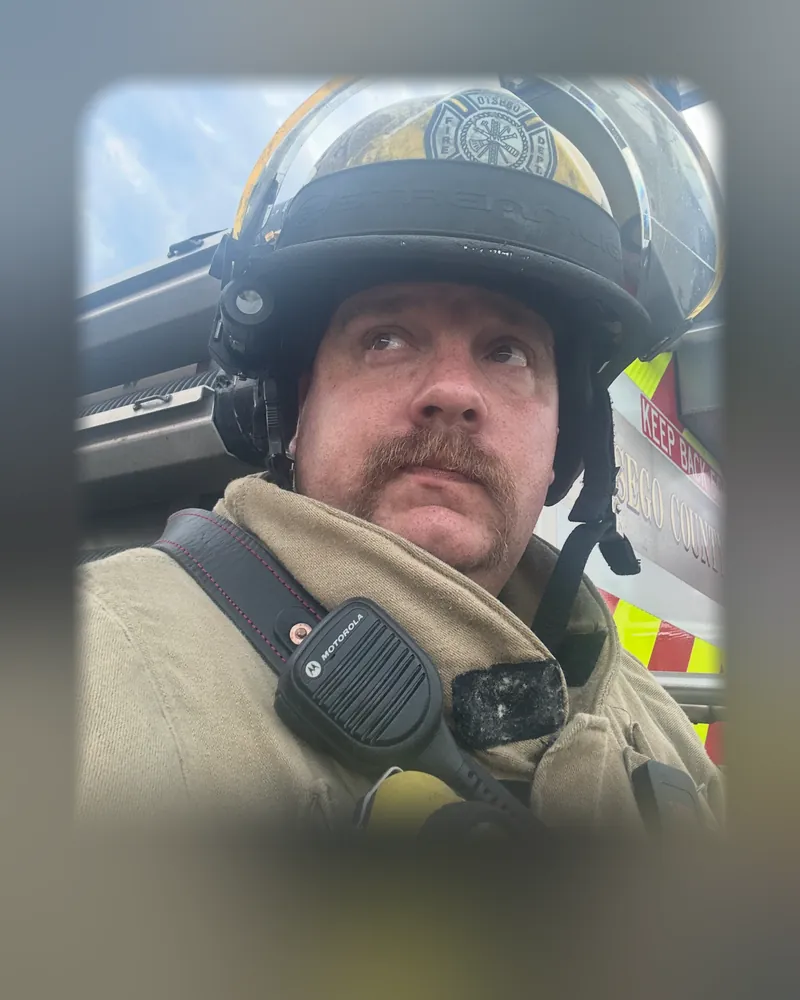
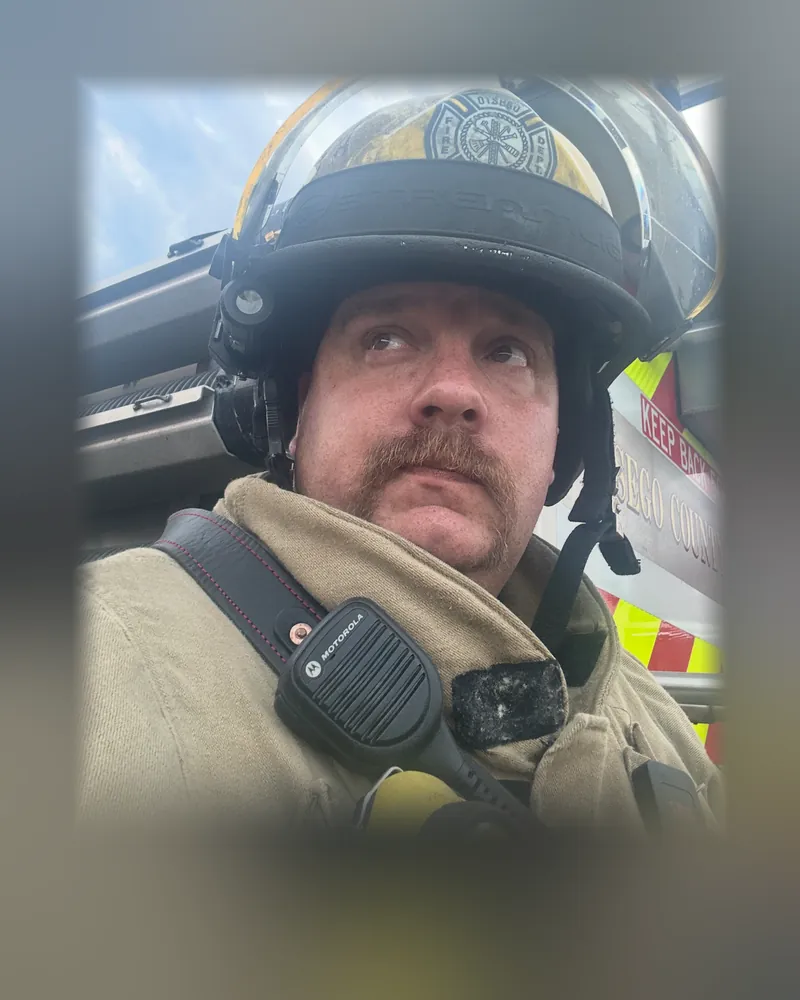
Revert rounded top corners on the board photos
This reverts commit cefcf27.

diff --git a/index.html b/index.html
@@ -303,9 +303,9 @@
     <div class="eyebrow">Leadership</div>
     <h2 class="section-heading">Board of <em>Directors</em></h2>
     <div class="board-grid">
-      <div class="board-card board-card--photo reveal"><div class="board-photo"><img src="images/board-libby.webp?v=8" alt="Libby Benjamin" width="800" height="1000" loading="lazy"></div><div class="board-info"><div class="board-name">Libby Benjamin</div><div class="board-role">President</div></div></div>
-      <div class="board-card board-card--photo reveal"><div class="board-photo"><img src="images/board-dan.webp?v=8" alt="Dan Rypkowski" width="800" height="1000" loading="lazy"></div><div class="board-info"><div class="board-name">Dan Rypkowski</div><div class="board-role">Vice President</div></div></div>
-      <div class="board-card board-card--photo reveal"><div class="board-photo"><img src="images/board-kenneth.webp?v=8" alt="Kenneth Gibson" width="800" height="1000" loading="lazy"></div><div class="board-info"><div class="board-name">Kenneth Gibson</div><div class="board-role">Secretary / Treasurer</div></div></div>
+      <div class="board-card board-card--photo reveal"><div class="board-photo"><img src="images/board-libby.webp?v=7" alt="Libby Benjamin" width="800" height="1000" loading="lazy"></div><div class="board-info"><div class="board-name">Libby Benjamin</div><div class="board-role">President</div></div></div>
+      <div class="board-card board-card--photo reveal"><div class="board-photo"><img src="images/board-dan.webp?v=7" alt="Dan Rypkowski" width="800" height="1000" loading="lazy"></div><div class="board-info"><div class="board-name">Dan Rypkowski</div><div class="board-role">Vice President</div></div></div>
+      <div class="board-card board-card--photo reveal"><div class="board-photo"><img src="images/board-kenneth.webp?v=7" alt="Kenneth Gibson" width="800" height="1000" loading="lazy"></div><div class="board-info"><div class="board-name">Kenneth Gibson</div><div class="board-role">Secretary / Treasurer</div></div></div>
     </div>
   </div>
 </section>
